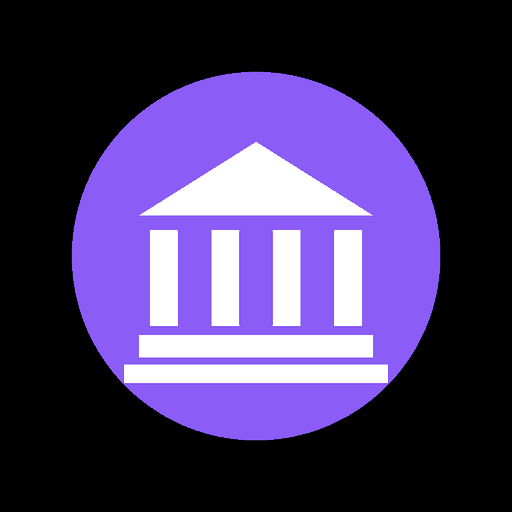
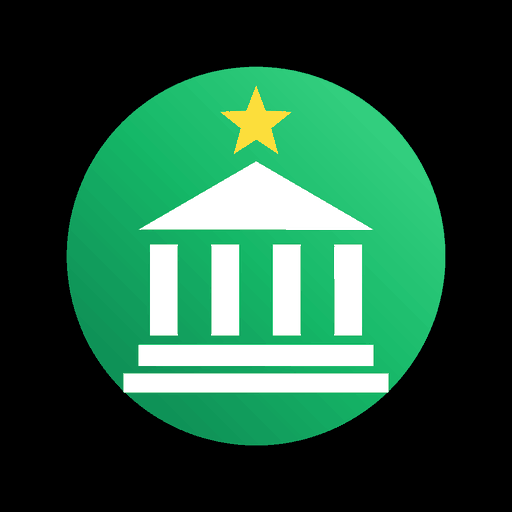
Tema sempre escuro com as cores de Alta Floresta D'Oeste
- Verde com degradê no lugar do roxo, amarelo da estrela, azul e branco da bandeira
- Mesmo visual escuro no computador e no celular
- Cartão de destaque com estrela e faixa nas cores da bandeira
- Novo ícone: prédio em fundo verde com a estrela amarela

Claude-Session: https://claude.ai/code/session_01K1B4cVMDJ1YtzbzTLRRDQ3

diff --git a/styles.css b/styles.css
@@ -4,54 +4,35 @@
    ============================================ */
 
 :root {
-  color-scheme: light dark;
-  --tint: #AF52DE;
-  --tint-2: #7B3FE4;
-  --bg: #F2F2F7;
-  --card: #FFFFFF;
-  --card-2: #F2F2F7;
-  --label: #000000;
-  --label-2: rgba(60, 60, 67, .62);
-  --label-3: rgba(60, 60, 67, .32);
-  --sep: rgba(60, 60, 67, .22);
-  --fill: rgba(118, 118, 128, .12);
-  --nav-bg: rgba(242, 242, 247, .82);
-  --bar-bg: rgba(249, 249, 249, .86);
-  --green: #34C759;
-  --blue: #007AFF;
-  --orange: #FF9500;
-  --red: #FF3B30;
-  --teal: #30B0C7;
-  --indigo: #5856D6;
-  --pink: #FF2D55;
+  /* Sempre escuro, com as cores do município:
+     verde da bandeira (destaque), amarelo da estrela, azul e branco. */
+  color-scheme: dark;
+  --tint: #34D27B;          /* verde do destaque (textos e ícones) */
+  --tint-fill: #1DAF62;     /* verde para fundos com texto branco */
+  --tint-deep: #0B7A4B;
+  --bg: #000000;
+  --card: #141416;
+  --card-2: #232326;
+  --label: #FFFFFF;
+  --label-2: rgba(235, 235, 245, .62);
+  --label-3: rgba(235, 235, 245, .3);
+  --sep: rgba(84, 84, 88, .62);
+  --fill: rgba(118, 118, 128, .24);
+  --nav-bg: rgba(0, 0, 0, .78);
+  --bar-bg: rgba(18, 18, 20, .88);
+  --green: #30D158;
+  --yellow: #FFD60A;        /* estrela da bandeira */
+  --blue: #4D7CFF;          /* azul da bandeira */
+  --orange: #FF9F0A;
+  --red: #FF453A;
+  --teal: #40C8E0;
+  --cyan: #64D2FF;
+  --pink: #FF375F;
   --gray: #8E8E93;
   --nav-h: 44px;
   --tab-h: 50px;
   --top: env(safe-area-inset-top);
   --bottom: env(safe-area-inset-bottom);
-}
-@media (prefers-color-scheme: dark) {
-  :root {
-    --tint: #BF5AF2;
-    --tint-2: #8E4CF0;
-    --bg: #000000;
-    --card: #1C1C1E;
-    --card-2: #2C2C2E;
-    --label: #FFFFFF;
-    --label-2: rgba(235, 235, 245, .62);
-    --label-3: rgba(235, 235, 245, .3);
-    --sep: rgba(84, 84, 88, .62);
-    --fill: rgba(118, 118, 128, .24);
-    --nav-bg: rgba(0, 0, 0, .78);
-    --bar-bg: rgba(22, 22, 24, .86);
-    --green: #30D158;
-    --blue: #0A84FF;
-    --orange: #FF9F0A;
-    --red: #FF453A;
-    --teal: #40C8E0;
-    --indigo: #5E5CE6;
-    --pink: #FF375F;
-  }
 }
 
 * { box-sizing: border-box; -webkit-tap-highlight-color: transparent; }
@@ -164,11 +145,19 @@ button.row { width: 100%; text-align: left; }
 
 /* ---------- cartão de destaque (próxima sessão) ---------- */
 .hero {
-  margin: 0 16px 6px; border-radius: 20px; padding: 18px 18px 16px; color: #fff;
-  background: radial-gradient(120% 140% at 100% 0%, #C86BFA 0%, #8E4CF0 45%, #4B2BB8 100%);
-  box-shadow: 0 10px 30px -12px rgba(110, 60, 220, .55);
+  position: relative; overflow: hidden;
+  margin: 0 16px 6px; border-radius: 20px; padding: 18px 18px 20px; color: #fff;
+  background:
+    radial-gradient(90% 120% at 100% 0%, rgba(255, 214, 10, .22) 0%, rgba(255, 214, 10, 0) 45%),
+    radial-gradient(130% 150% at 100% 0%, #4BE394 0%, #16B868 38%, #0B7A4B 72%, #0A4D63 100%);
+  box-shadow: 0 12px 34px -14px rgba(29, 175, 98, .65);
   display: block;
 }
+.hero-star { position: absolute; top: 14px; right: 14px; width: 46px; height: 46px; color: var(--yellow); filter: drop-shadow(0 2px 10px rgba(255, 214, 10, .45)); }
+.hero-star svg { width: 100%; height: 100%; }
+.hero h3, .hero .when, .hero .eyebrow { padding-right: 50px; }
+.flagbar { position: absolute; left: 0; right: 0; bottom: 0; height: 4px; display: flex; }
+.flagbar i { flex: 1; }
 .hero .eyebrow { color: rgba(255, 255, 255, .78); }
 .hero h3 { margin: 4px 0 2px; font-size: 24px; font-weight: 700; letter-spacing: .2px; }
 .hero .when { font-size: 15px; color: rgba(255, 255, 255, .88); }
@@ -200,7 +189,7 @@ button.row { width: 100%; text-align: left; }
 }
 .action svg { width: 23px; height: 23px; }
 .action:active { opacity: .55; }
-.action.on { background: var(--tint); color: #fff; }
+.action.on { background: var(--tint-fill); color: #fff; }
 
 /* ---------- progresso da matéria ---------- */
 .stepper { background: var(--card); border-radius: 14px; margin: 0 16px 22px; padding: 16px 12px 14px; }
@@ -211,14 +200,14 @@ button.row { width: 100%; text-align: left; }
 .step { flex: 1; position: relative; display: flex; flex-direction: column; align-items: center; text-align: center; }
 .step::before { content: ""; position: absolute; top: 11px; right: 50%; width: 100%; height: 3px; background: var(--fill); }
 .step:first-child::before { display: none; }
-.step.done::before, .step.cur::before { background: var(--tint); }
+.step.done::before, .step.cur::before { background: var(--tint-fill); }
 .step .ball {
   position: relative; z-index: 1; width: 25px; height: 25px; border-radius: 50%;
   background: var(--card-2); border: 3px solid var(--card); box-shadow: 0 0 0 1.5px var(--fill);
   display: grid; place-items: center; color: #fff;
 }
-.step.done .ball { background: var(--tint); box-shadow: none; }
-.step.cur .ball { background: var(--tint); box-shadow: 0 0 0 4px color-mix(in srgb, var(--tint) 28%, transparent); }
+.step.done .ball { background: var(--tint-fill); box-shadow: none; }
+.step.cur .ball { background: var(--tint-fill); box-shadow: 0 0 0 4px color-mix(in srgb, var(--tint) 30%, transparent); }
 .step.bad .ball { background: var(--red); box-shadow: 0 0 0 4px color-mix(in srgb, var(--red) 25%, transparent); }
 .step.good .ball { background: var(--green); box-shadow: 0 0 0 4px color-mix(in srgb, var(--green) 25%, transparent); }
 .step.bad::before { background: var(--red); }
@@ -260,7 +249,7 @@ button.row { width: 100%; text-align: left; }
   font-size: 15px; font-weight: 500; padding: 7px 14px; border-radius: 999px;
   background: var(--card); color: var(--label);
 }
-.chip.on { background: var(--tint); color: #fff; }
+.chip.on { background: var(--tint-fill); color: #fff; }
 .chip .n { font-size: 12px; font-weight: 700; background: rgba(255, 255, 255, .28); padding: 1px 6px; border-radius: 999px; }
 .chip svg { width: 16px; height: 16px; }
 .count { color: var(--label-2); font-size: 13px; text-transform: uppercase; margin: 6px 36px 7px; }
@@ -298,10 +287,9 @@ button.row { width: 100%; text-align: left; }
 .sk { border-radius: 6px; background: var(--fill); position: relative; overflow: hidden; }
 .sk::after {
   content: ""; position: absolute; inset: 0; transform: translateX(-100%);
-  background: linear-gradient(90deg, transparent, rgba(255, 255, 255, .35), transparent);
+  background: linear-gradient(90deg, transparent, rgba(255, 255, 255, .07), transparent);
   animation: shimmer 1.2s infinite;
 }
-@media (prefers-color-scheme: dark) { .sk::after { background: linear-gradient(90deg, transparent, rgba(255, 255, 255, .07), transparent); } }
 @keyframes shimmer { to { transform: translateX(100%); } }
 .empty { text-align: center; color: var(--label-2); padding: 44px 28px; font-size: 16px; }
 .empty .big { color: var(--label-3); margin: 0 auto 12px; width: 54px; height: 54px; }
@@ -310,7 +298,7 @@ button.row { width: 100%; text-align: left; }
 .error b { display: block; color: var(--label); font-size: 19px; margin-bottom: 6px; }
 .btn {
   display: inline-block; margin-top: 16px; padding: 11px 22px; border-radius: 12px;
-  background: var(--tint); color: #fff; font-weight: 600; font-size: 17px;
+  background: var(--tint-fill); color: #fff; font-weight: 600; font-size: 17px;
 }
 .btn:disabled { opacity: .5; }
 .install {

diff --git a/app.js b/app.js
@@ -133,7 +133,7 @@ const I = {
    ========================================================= */
 
 const SIGLA = { 1: 'PL', 7: 'PLL', 5: 'IND', 2: 'REQ', 3: 'VETO', 8: 'PLC', 9: 'PR', 26: 'PDL', 24: 'EMENDA', 13: 'PELOM', 30: 'LEI', 14: 'ATO', 6: 'ATO', 4: 'OFÍCIO' };
-const COR = { 1: '--tint', 7: '--tint', 8: '--indigo', 13: '--indigo', 5: '--green', 2: '--blue', 3: '--red', 9: '--orange', 26: '--orange', 24: '--pink', 30: '--teal' };
+const COR = { 1: '--tint', 7: '--tint', 8: '--teal', 13: '--teal', 5: '--yellow', 2: '--blue', 3: '--red', 9: '--orange', 26: '--orange', 24: '--pink', 30: '--cyan' };
 let TIPOS = {}; // preenchido pelo lookup
 
 function tagInfo(mt) {
@@ -479,6 +479,15 @@ function sessaoRow(s) {
    HOJE
    ========================================================= */
 
+function tile(n, label, color, icon, hash) {
+  const fg = color === '--yellow' ? ';color:#1c1c1e' : '';
+  const bg = color === '--tint' ? '--tint-fill' : color;
+  return `<a class="tile" style="--c:var(${color})" href="${hash}">
+    <div class="ic" style="background:var(${bg})${fg}">${icon}</div><b>${n === null ? '—' : n.toLocaleString('pt-BR')}</b><span>${label}</span></a>`;
+}
+const STAR = '<svg viewBox="0 0 24 24" aria-hidden="true"><path fill="currentColor" d="M12 1.8l2.9 6.6 7.1.6-5.4 4.7 1.6 7-6.2-3.7-6.2 3.7 1.6-7L2 9l7.1-.6Z"/></svg>';
+const FLAGBAR = '<div class="flagbar"><i style="background:#16B868"></i><i style="background:#fff"></i><i style="background:#2F55FF"></i><i style="background:#FFD60A"></i></div>';
+
 async function viewHoje(m, token) {
   const hoje = todayISO();
   const ano = new Date().getFullYear();
@@ -505,14 +514,11 @@ async function viewHoje(m, token) {
     if (hero.url_video) acts.push(`<a href="${esc(hero.url_video)}" target="_blank" rel="noopener">${I.play}Vídeo</a>`);
     if (hero.upload_ata) acts.push(`<a href="${esc(https(hero.upload_ata))}" target="_blank" rel="noopener">${I.doc}Ata</a>`);
     acts.push(`<a href="#/sessao/${hero.id}">Detalhes</a>`);
-    heroHTML = `<div class="hero"><div class="eyebrow">${rot}</div>
+    heroHTML = `<div class="hero"><div class="hero-star">${STAR}</div><div class="eyebrow">${rot}</div>
       <h3>${esc(sessaoNome(hero))}</h3>
       <div class="when">${esc(fmtLongDate(hero.data_inicio))}${hero.hora_inicio ? ' · ' + esc(hero.hora_inicio) : ''}</div>
-      <div class="acts">${acts.join('')}</div></div>`;
+      <div class="acts">${acts.join('')}</div>${FLAGBAR}</div>`;
   }
-
-  const tile = (n, label, color, icon, hash) => `<a class="tile" style="--c:var(${color})" href="${hash}">
-    <div class="ic">${icon}</div><b>${n === null ? '—' : n.toLocaleString('pt-BR')}</b><span>${label}</span></a>`;
 
   const favIds = Object.keys(Favs.all());
   render(`${largeHTML('Hoje', fmtLongDate(hoje, false))}
@@ -520,10 +526,10 @@ async function viewHoje(m, token) {
     ${heroHTML}
     <div class="section"><h2>Em ${ano}</h2></div>
     <div class="tiles">
-      ${tile(cInd, 'Indicações', '--green', I.megaphone, `#/materias?tipo=5&ano=${ano}`)}
+      ${tile(cInd, 'Indicações', '--yellow', I.megaphone, `#/materias?tipo=5&ano=${ano}`)}
       ${tile(cReq, 'Requerimentos', '--blue', I.bubble, `#/materias?tipo=2&ano=${ano}`)}
       ${tile(cPl, 'Projetos de lei', '--tint', I.scroll, `#/materias?tipo=1&ano=${ano}`)}
-      ${tile(cLei, 'Leis sancionadas', '--teal', I.seal, `#/materias?tipo=30&ano=${ano}`)}
+      ${tile(cLei, 'Leis sancionadas', '--cyan', I.seal, `#/materias?tipo=30&ano=${ano}`)}
     </div>
     <div id="favBlock">${favIds.length ? favBlockHTML() : ''}</div>
     <div class="section"><h2>Novas matérias</h2><a href="#/materias">Ver tudo</a></div>
@@ -927,14 +933,11 @@ async function viewVereador(m, token) {
     api('materia/materialegislativa/', { autores: p.autorId, o: '-data_apresentacao', page_size: 8 }).catch(() => ({ results: [] })),
   ]);
   if (token !== navToken) return;
-  const tile = (n, label, color, icon, hash) => `<a class="tile" style="--c:var(${color})" href="${hash}">
-    <div class="ic">${icon}</div><b>${n === null ? '—' : n.toLocaleString('pt-BR')}</b><span>${label}</span></a>`;
-
   render(`${head}
     <div class="tiles">
       ${tile(tot, 'Matérias no total', '--tint', I.doc, `#/materias?autor=${p.autorId}`)}
       ${tile(doAno, `Em ${ano}`, '--orange', I.calendar, `#/materias?autor=${p.autorId}&ano=${ano}`)}
-      ${tile(ind, 'Indicações', '--green', I.megaphone, `#/materias?autor=${p.autorId}&tipo=5`)}
+      ${tile(ind, 'Indicações', '--yellow', I.megaphone, `#/materias?autor=${p.autorId}&tipo=5`)}
       ${tile(req, 'Requerimentos', '--blue', I.bubble, `#/materias?autor=${p.autorId}&tipo=2`)}
     </div>
     <div class="section"><h2>Mais recentes</h2>${tot > 8 ? `<a href="#/materias?autor=${p.autorId}">Ver tudo</a>` : ''}</div>

diff --git a/index.html b/index.html
@@ -5,16 +5,15 @@
   <meta name="viewport" content="width=device-width, initial-scale=1, viewport-fit=cover">
   <title>Câmara AFO</title>
   <meta name="description" content="Sessões, matérias e vereadores da Câmara Municipal de Alta Floresta D'Oeste, com dados públicos do SAPL.">
-  <meta name="color-scheme" content="light dark">
-  <meta name="theme-color" media="(prefers-color-scheme: light)" content="#F2F2F7">
-  <meta name="theme-color" media="(prefers-color-scheme: dark)" content="#000000">
+  <meta name="color-scheme" content="dark">
+  <meta name="theme-color" content="#000000">
 
   <link rel="manifest" href="./manifest.webmanifest">
   <link rel="apple-touch-icon" href="./icons/apple-touch-icon.png">
   <link rel="icon" type="image/png" sizes="192x192" href="./icons/icon-192.png">
   <meta name="apple-mobile-web-app-capable" content="yes">
   <meta name="mobile-web-app-capable" content="yes">
-  <meta name="apple-mobile-web-app-status-bar-style" content="default">
+  <meta name="apple-mobile-web-app-status-bar-style" content="black-translucent">
   <meta name="apple-mobile-web-app-title" content="Câmara AFO">
 
   <link rel="stylesheet" href="./styles.css">

diff --git a/sw.js b/sw.js
@@ -2,7 +2,7 @@
 // - Arquivos do app: ficam guardados no aparelho (abre mesmo sem internet).
 // - Dados do SAPL: busca na internet primeiro; sem sinal, usa a última cópia salva.
 
-const VERSION = 'v4';
+const VERSION = 'v5';
 const SHELL = 'cma-shell-' + VERSION;
 const DATA = 'cma-data-' + VERSION;
 const SAPL_API = 'https://sapl.altaflorestadoeste.ro.leg.br/api/';

diff --git a/README.md b/README.md
@@ -27,7 +27,7 @@ Ele lê os dados públicos do [SAPL da Câmara](https://sapl.altaflorestadoeste.
 | Arquivo | Função |
 |---|---|
 | `index.html` | Estrutura da página e barra de abas |
-| `styles.css` | Visual (tema escuro com destaque roxo) |
+| `styles.css` | Visual (tema escuro com as cores do município: verde, amarelo, azul e branco) |
 | `app.js` | Telas, busca e acesso à API do SAPL |
 | `sw.js` | Funcionamento offline |
 | `manifest.webmanifest` | Nome, ícone e modo "app" ao instalar |
